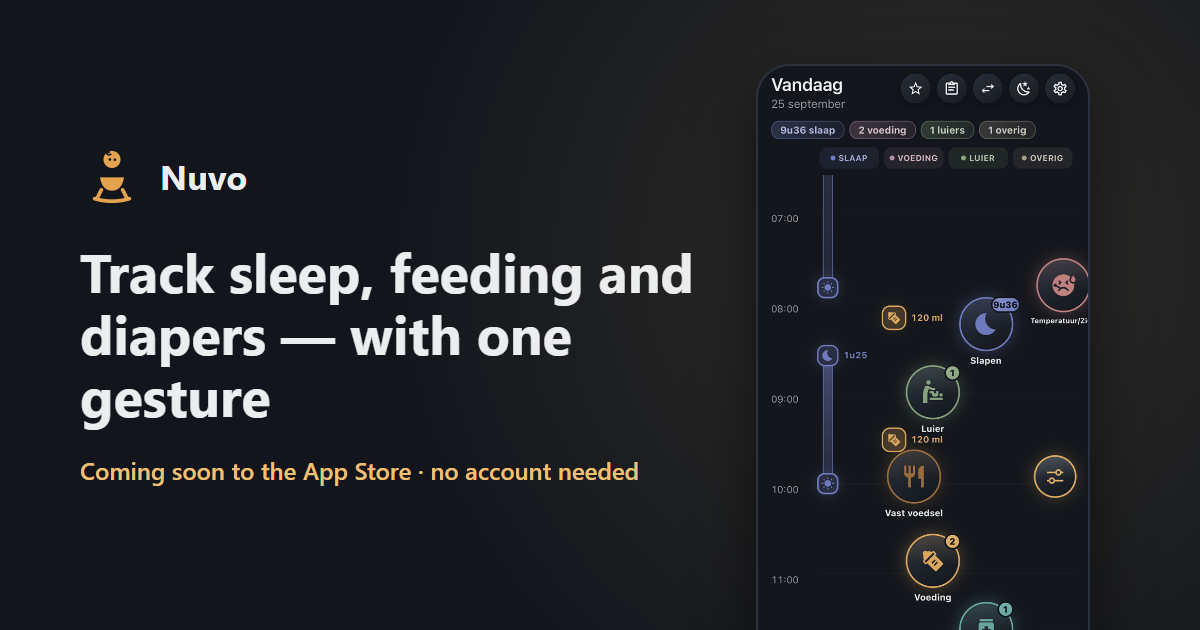
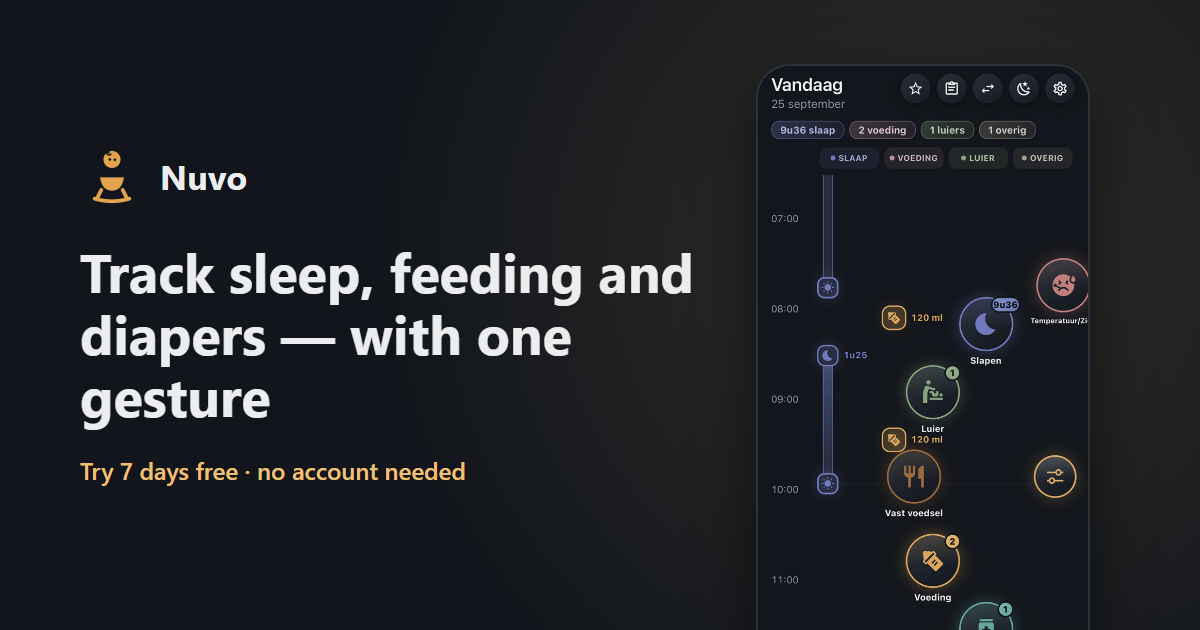
Nuvo live: App Store-knop + appbanner terug, pt-id in alle links, gidsen met store-knop

Changed region(s): [[0.0617, 0.7238, 0.5242, 0.7841]]

diff --git a/nl/index.html b/nl/index.html
@@ -22,7 +22,7 @@
 <meta property="og:image:alt" content="Nuvo-icoon, de kop 'Slaap, voeding en luiers bijhouden — met één gebaar' en het wiel op een iPhone-scherm">
 <meta name="twitter:card" content="summary_large_image">
 <link rel="icon" href="/assets/favicon.png">
-<!-- <meta name="apple-itunes-app" content="app-id=6813427228"> (tijdelijk uit, zie cta-row) -->
+<meta name="apple-itunes-app" content="app-id=6813427228">
 <link rel="stylesheet" href="/assets/style.css">
 </head>
 <body>
@@ -44,12 +44,8 @@
   <img class="hero-shot" src="/assets/hero-wheel.png" alt="Nuvo's wiel en tijdlijn op een iPhone-scherm">
 
   <div class="cta-row">
-    <!-- Tijdelijk "binnenkort" (2026-09-25). Terug naar de knop:
-         <a class="cta" href="https://apps.apple.com/app/id6813427228?ct=site-nl">Probeer 7 dagen gratis</a>
-         <p class="cta-note">Download in de App Store · geen account nodig</p>
-         en de apple-itunes-app-meta in de head terugzetten. -->
-    <span class="cta soon">Binnenkort in de App Store</span>
-    <p class="cta-note">Voor iPhone. Kijk hier binnenkort weer; de knop verschijnt zodra de nieuwe versie live staat.</p>
+    <a class="cta" href="https://apps.apple.com/app/id6813427228?pt=129476149&amp;ct=site-nl&amp;mt=8">Probeer 7 dagen gratis</a>
+    <p class="cta-note">Download in de App Store · geen account nodig</p>
   </div>
 
   <ul class="features">

diff --git a/en/index.html b/en/index.html
@@ -22,7 +22,7 @@
 <meta property="og:image:alt" content="Nuvo app icon, the headline 'Track sleep, feeding and diapers — with one gesture' and the wheel on an iPhone screen">
 <meta name="twitter:card" content="summary_large_image">
 <link rel="icon" href="/assets/favicon.png">
-<!-- <meta name="apple-itunes-app" content="app-id=6813427228"> (tijdelijk uit, zie cta-row) -->
+<meta name="apple-itunes-app" content="app-id=6813427228">
 <link rel="stylesheet" href="/assets/style.css">
 </head>
 <body>
@@ -44,12 +44,8 @@
   <img class="hero-shot" src="/assets/hero-wheel.png" alt="Nuvo's wheel and timeline on an iPhone screen">
 
   <div class="cta-row">
-    <!-- Temporarily "coming soon" (2026-09-25). Back to the button:
-         <a class="cta" href="https://apps.apple.com/app/id6813427228?ct=site-en">Try 7 days free</a>
-         <p class="cta-note">Download on the App Store · no account needed</p>
-         and restore the apple-itunes-app meta in the head. -->
-    <span class="cta soon">Coming soon to the App Store</span>
-    <p class="cta-note">For iPhone. Check back soon; the button appears as soon as the new version is live.</p>
+    <a class="cta" href="https://apps.apple.com/app/id6813427228?pt=129476149&amp;ct=site-en&amp;mt=8">Try 7 days free</a>
+    <p class="cta-note">Download on the App Store · no account needed</p>
   </div>
 
   <ul class="features">

diff --git a/nl/baby-logboek/index.html b/nl/baby-logboek/index.html
@@ -19,6 +19,7 @@
 <meta property="og:image" content="https://nuvoapp.nl/assets/og-nl.png">
 <meta name="twitter:card" content="summary_large_image">
 <link rel="icon" href="/assets/favicon.png">
+<meta name="apple-itunes-app" content="app-id=6813427228">
 <link rel="stylesheet" href="/assets/style.css">
 </head>
 <body>
@@ -49,8 +50,8 @@
     <h2>Of houd het bij op je telefoon</h2>
     <p>Nuvo doet hetzelfde met één gebaar op het wiel, ook ’s nachts met één hand. Je partner kan versleuteld meekijken, en je maakt er in één tik een PDF van voor het consultatiebureau.</p>
     <div class="cta-row">
-    <span class="cta soon">Binnenkort in de App Store</span>
-    <p class="cta-note">Voor iPhone. De knop verschijnt zodra de nieuwe versie live staat.</p>
+    <a class="cta" href="https://apps.apple.com/app/id6813427228?pt=129476149&ct=baby-logboek&mt=8">Probeer 7 dagen gratis</a>
+    <p class="cta-note">Download in de App Store · geen account nodig</p>
   </div>
   </section>
 

diff --git a/nl/hoeveel-slaap-baby/index.html b/nl/hoeveel-slaap-baby/index.html
@@ -19,6 +19,7 @@
 <meta property="og:image" content="https://nuvoapp.nl/assets/og-nl.png">
 <meta name="twitter:card" content="summary_large_image">
 <link rel="icon" href="/assets/favicon.png">
+<meta name="apple-itunes-app" content="app-id=6813427228">
 <link rel="stylesheet" href="/assets/style.css">
 </head>
 <body>
@@ -55,8 +56,8 @@
     <h2>Slaap bijhouden met Nuvo, altijd gratis</h2>
     <p>Start en stop een slaapje met één gebaar, of in één tik vanaf je beginscherm. Nuvo telt de uren per dag voor je op. Slaap bijhouden is in Nuvo altijd gratis.</p>
     <div class="cta-row">
-    <span class="cta soon">Binnenkort in de App Store</span>
-    <p class="cta-note">Voor iPhone. De knop verschijnt zodra de nieuwe versie live staat.</p>
+    <a class="cta" href="https://apps.apple.com/app/id6813427228?pt=129476149&ct=hoeveel-slaap-baby&mt=8">Probeer 7 dagen gratis</a>
+    <p class="cta-note">Download in de App Store · geen account nodig</p>
   </div>
   </section>
 

diff --git a/en/baby-log/index.html b/en/baby-log/index.html
@@ -19,6 +19,7 @@
 <meta property="og:image" content="https://nuvoapp.nl/assets/og-en.png">
 <meta name="twitter:card" content="summary_large_image">
 <link rel="icon" href="/assets/favicon.png">
+<meta name="apple-itunes-app" content="app-id=6813427228">
 <link rel="stylesheet" href="/assets/style.css">
 </head>
 <body>
@@ -49,8 +50,8 @@
     <h2>Or track it on your phone</h2>
     <p>Nuvo does the same with one gesture on the wheel, even one-handed at night. Your partner can follow along, encrypted, and you turn it into a PDF for your paediatrician in one tap.</p>
     <div class="cta-row">
-    <span class="cta soon">Coming soon to the App Store</span>
-    <p class="cta-note">For iPhone. The button appears as soon as the new version is live.</p>
+    <a class="cta" href="https://apps.apple.com/app/id6813427228?pt=129476149&ct=baby-log&mt=8">Try 7 days free</a>
+    <p class="cta-note">Download on the App Store · no account needed</p>
   </div>
   </section>
 

diff --git a/en/baby-sleep-by-age/index.html b/en/baby-sleep-by-age/index.html
@@ -19,6 +19,7 @@
 <meta property="og:image" content="https://nuvoapp.nl/assets/og-en.png">
 <meta name="twitter:card" content="summary_large_image">
 <link rel="icon" href="/assets/favicon.png">
+<meta name="apple-itunes-app" content="app-id=6813427228">
 <link rel="stylesheet" href="/assets/style.css">
 </head>
 <body>
@@ -55,8 +56,8 @@
     <h2>Track sleep with Nuvo, always free</h2>
     <p>Start and stop a nap with one gesture, or in one tap from your home screen. Nuvo adds up the hours per day for you. Tracking sleep in Nuvo is always free.</p>
     <div class="cta-row">
-    <span class="cta soon">Coming soon to the App Store</span>
-    <p class="cta-note">For iPhone. The button appears as soon as the new version is live.</p>
+    <a class="cta" href="https://apps.apple.com/app/id6813427228?pt=129476149&ct=baby-sleep-by-age&mt=8">Try 7 days free</a>
+    <p class="cta-note">Download on the App Store · no account needed</p>
   </div>
   </section>
 

diff --git a/nl/flesvoeding-berekenen/index.html b/nl/flesvoeding-berekenen/index.html
@@ -19,6 +19,7 @@
 <meta property="og:image" content="https://nuvoapp.nl/assets/og-nl.png">
 <meta name="twitter:card" content="summary_large_image">
 <link rel="icon" href="/assets/favicon.png">
+<meta name="apple-itunes-app" content="app-id=6813427228">
 <link rel="stylesheet" href="/assets/style.css">
 </head>
 <body>
@@ -84,8 +85,8 @@
     <h2>Houd voedingen bij met Nuvo</h2>
     <p>Log een fles of borstvoeding met één gebaar op het wiel, ook ’s nachts met één hand. Zie hoeveel ml het vandaag was, per voeding en per dag.</p>
     <div class="cta-row">
-    <span class="cta soon">Binnenkort in de App Store</span>
-    <p class="cta-note">Voor iPhone. De knop verschijnt zodra de nieuwe versie live staat.</p>
+    <a class="cta" href="https://apps.apple.com/app/id6813427228?pt=129476149&ct=flesvoeding-berekenen&mt=8">Probeer 7 dagen gratis</a>
+    <p class="cta-note">Download in de App Store · geen account nodig</p>
   </div>
   </section>
 

diff --git a/en/formula-calculator/index.html b/en/formula-calculator/index.html
@@ -19,6 +19,7 @@
 <meta property="og:image" content="https://nuvoapp.nl/assets/og-en.png">
 <meta name="twitter:card" content="summary_large_image">
 <link rel="icon" href="/assets/favicon.png">
+<meta name="apple-itunes-app" content="app-id=6813427228">
 <link rel="stylesheet" href="/assets/style.css">
 </head>
 <body>
@@ -84,8 +85,8 @@
     <h2>Track feeds with Nuvo</h2>
     <p>Log a bottle or breastfeed with one gesture on the wheel, even one-handed at night. See how much it was today, per feed and per day.</p>
     <div class="cta-row">
-    <span class="cta soon">Coming soon to the App Store</span>
-    <p class="cta-note">For iPhone. The button appears as soon as the new version is live.</p>
+    <a class="cta" href="https://apps.apple.com/app/id6813427228?pt=129476149&ct=formula-calculator&mt=8">Try 7 days free</a>
+    <p class="cta-note">Download on the App Store · no account needed</p>
   </div>
   </section>
 

diff --git a/og-src/template.html b/og-src/template.html
@@ -94,11 +94,11 @@
   var copy = {
     nl: {
       headline: 'Slaap, voeding en luiers bijhouden — met één gebaar',
-      note: 'Binnenkort in de App Store · geen account nodig'
+      note: 'Probeer 7 dagen gratis · geen account nodig'
     },
     en: {
       headline: 'Track sleep, feeding and diapers — with one gesture',
-      note: 'Coming soon to the App Store · no account needed'
+      note: 'Try 7 days free · no account needed'
     }
   };
   var lang = new URLSearchParams(location.search).get('lang') === 'nl' ? 'nl' : 'en';

diff --git a/README.md b/README.md
@@ -34,7 +34,7 @@ netlify.toml          — publish-map + wat lichte security-headers
   Voorbeeld bekijken: open `og-src/template.html?lang=nl` in de browser.
 - App Store-links dragen een campagne-parameter (`?ct=site-nl` / `?ct=site-en`), zichtbaar
   in App Store Connect → App Analytics → Sources. Apple telt campagnes pas mee als de
-  link ook je provider-id bevat (`&pt=<id>`); die staat er nog niet in.
+  link ook je provider-id bevat (`&pt=129476149`); alle links hebben die sinds 2026-10-05.
 
 ## Deployen op Netlify
 
@@ -71,14 +71,11 @@ netlify.toml          — publish-map + wat lichte security-headers
 - Screenshot is nu 640px breed (~330KB) — prima voor nu, kan later vervangen worden door
   een geëxporteerde videoframe of een lichtere WebP-versie.
 
-## Tijdelijk "Binnenkort in de App Store" (sinds 2026-09-25)
+## Live in de App Store (sinds 2026-10-05)
 
-De knop "Probeer 7 dagen gratis" en de Safari-appbanner staan tijdelijk uit. Terugzetten zodra
-de nieuwe versie live staat: in `nl/index.html` en `en/index.html` de uitgecommentarieerde
-`<a class="cta" …>` en `<p class="cta-note">` terugzetten (staan als commentaar in `.cta-row`),
-de `apple-itunes-app`-meta in de head weer aanzetten, in `og-src/template.html` de `note` terug
-naar "Probeer 7 dagen gratis · geen account nodig" / "Try 7 days free · no account needed",
-`node og-src/build.mjs`, en `nuvo-landing-upload` opnieuw vullen.
+Nuvo 1.1.0 staat live (App Store-ID 6813427228). De knop "Probeer 7 dagen gratis" en de
+Safari-appbanner (`apple-itunes-app`) staan weer aan; de tijdelijke "Binnenkort"-stand
+(2026-09-25 t/m 2026-10-05) is weg.
 
 ## Gidsen en hulpmiddelen (NL + EN)
 
@@ -88,7 +85,6 @@ Om beter gevonden te worden (2026-09-30): flesvoedingcalculator (`/nl/flesvoedin
 `/en/baby-log/`). Teksten in `tools/guides.mjs` (regels bovenin: vuistregels met bron, geen
 medisch advies), pagina's + `sitemap.xml` via `node tools/build-guides.mjs`. De start- en
 privacypagina's blijven met de hand geschreven. PDF's uit `tools/baby-logboek.html` en
-`tools/baby-log.html` via `node tools/print.mjs` (Chrome/Edge). Staat Nuvo live? Vul
-`APP_STORE_ID` in `tools/build-guides.mjs` in en draai het opnieuw: dan krijgen de gidsen een
+`tools/baby-log.html` via `node tools/print.mjs` (Chrome/Edge). `APP_STORE_ID` in `tools/build-guides.mjs` staat ingevuld, dus de gidsen hebben een
 App Store-knop met eigen campagnelabel (`pt=129476149&ct=<pagina>`).
 Uploaden: een schone kopie zonder `.git`, `README.md`, `tools/` en `og-src/`.
